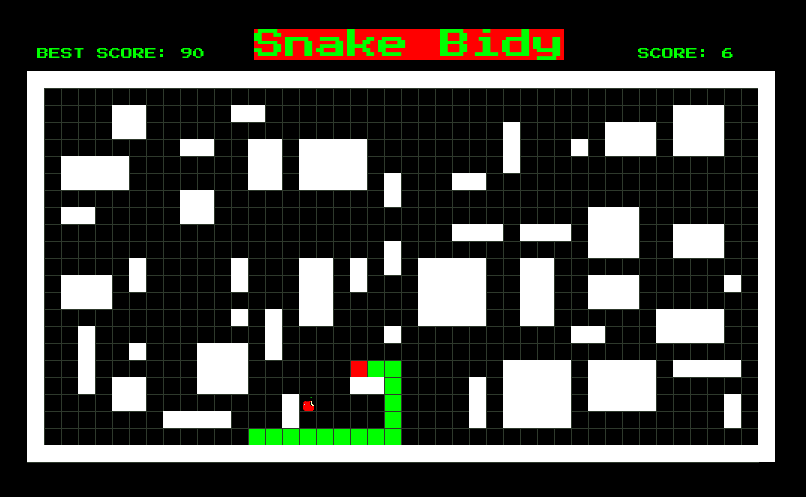
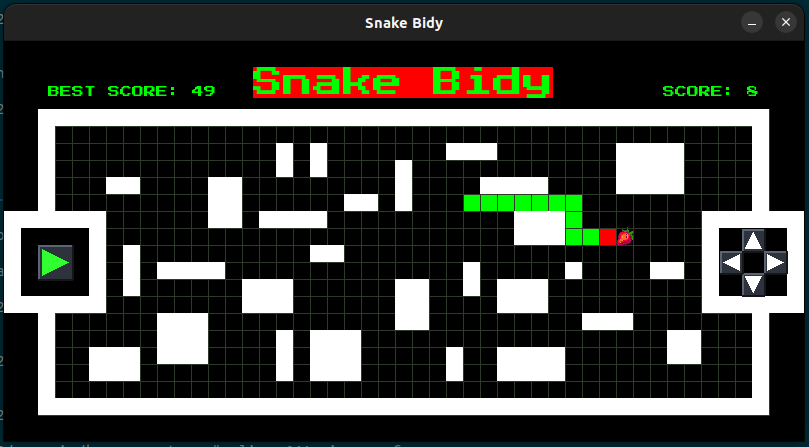
docs : update readme

diff --git a/README.md b/README.md
@@ -11,11 +11,18 @@
 ## 🖼 Aperçu du Jeu (Screenshots)
 
 Voici un aperçu visuel de l'interface et du design de l'application à travers ses trois états principaux.
+### 🏠 1. Écran d'Accueil
+![Écran d'Accueil](screenshots/home.png)
 
-| 🏠 Écran d'Accueil | 🎮 Gameplay (Labyrinthe Évolutif) | 💀 Écran de Game Over |
-| :---: | :---: | :---: |
-| ![Écran d'Accueil](screenshots/home.png) | ![Gameplay](screenshots/gameplay.png) | ![Game Over](screenshots/gameover.png) |
+---
 
+### 🎮 2. Gameplay (Labyrinthe Évolutif & Mode Mobile)
+![Gameplay](screenshots/gameplay.png)
+
+---
+
+### 💀 3. Écran de Game Over
+![Game Over](screenshots/gameover.png)
 ---
 
 ## 🚀 Fonctionnalités Clés
